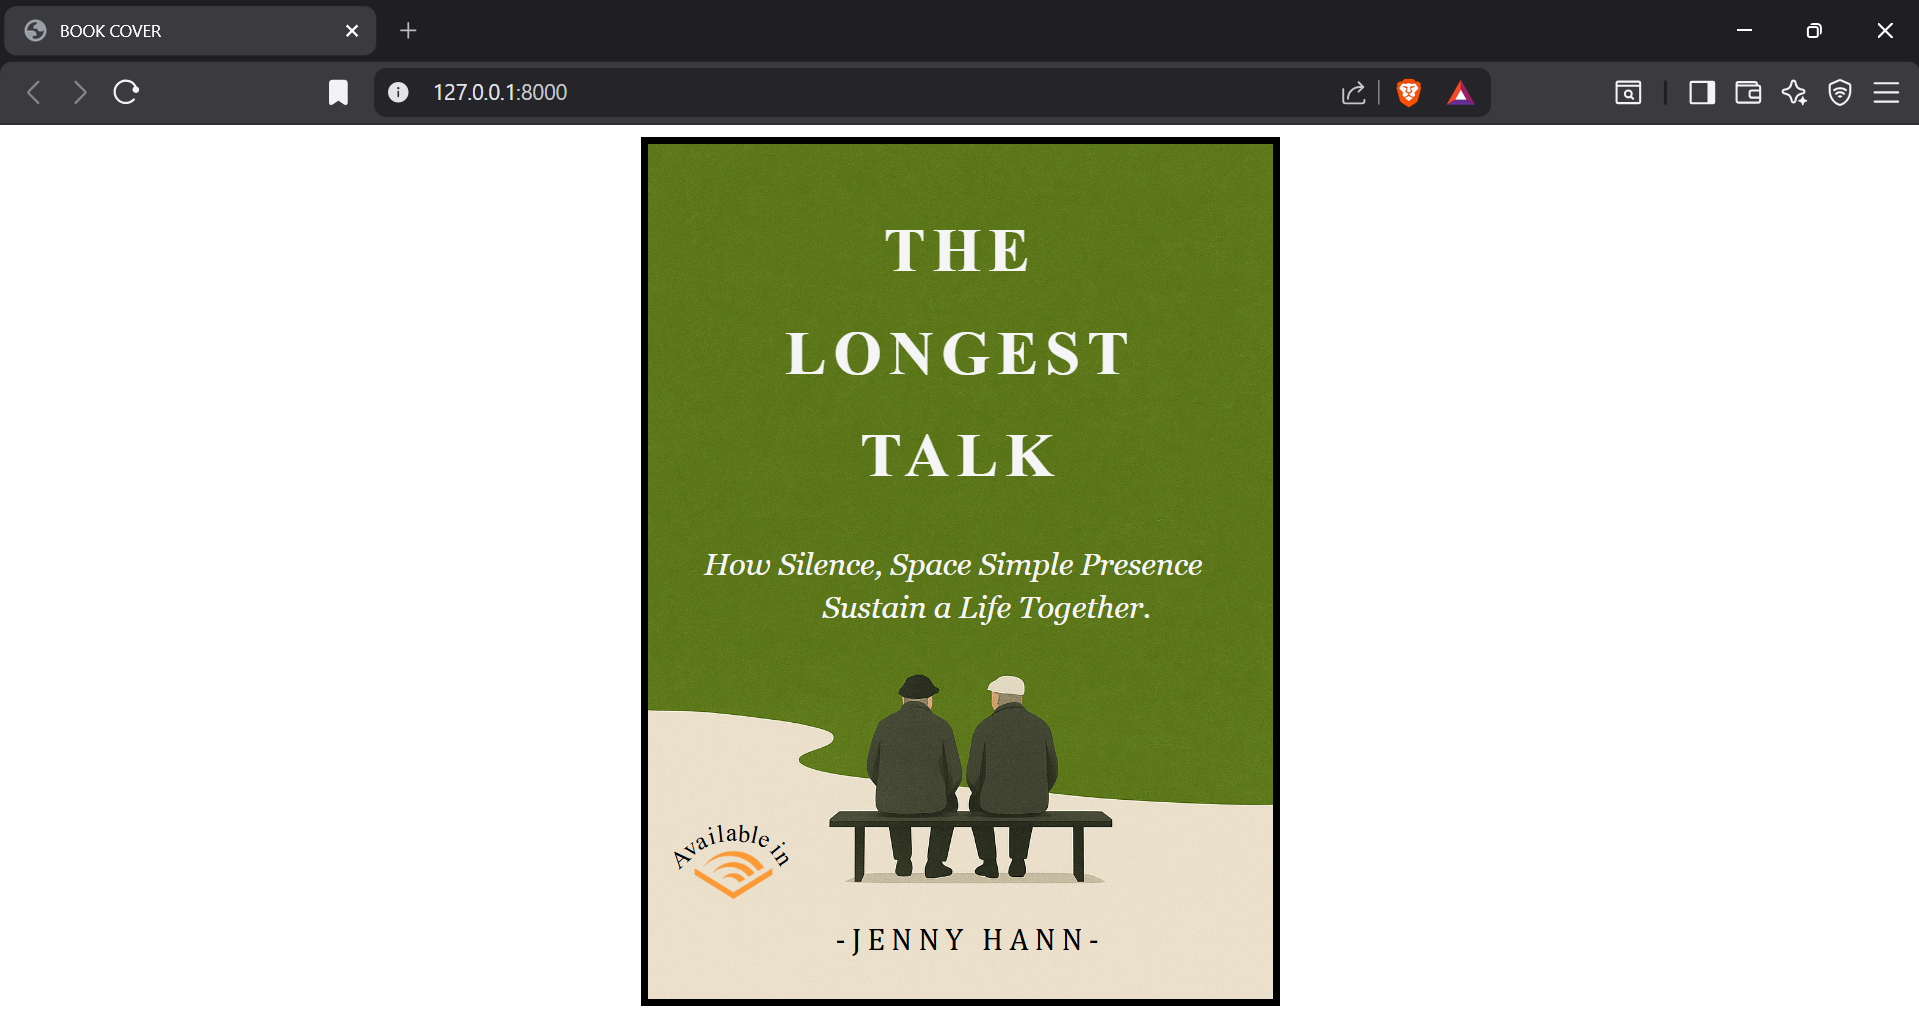
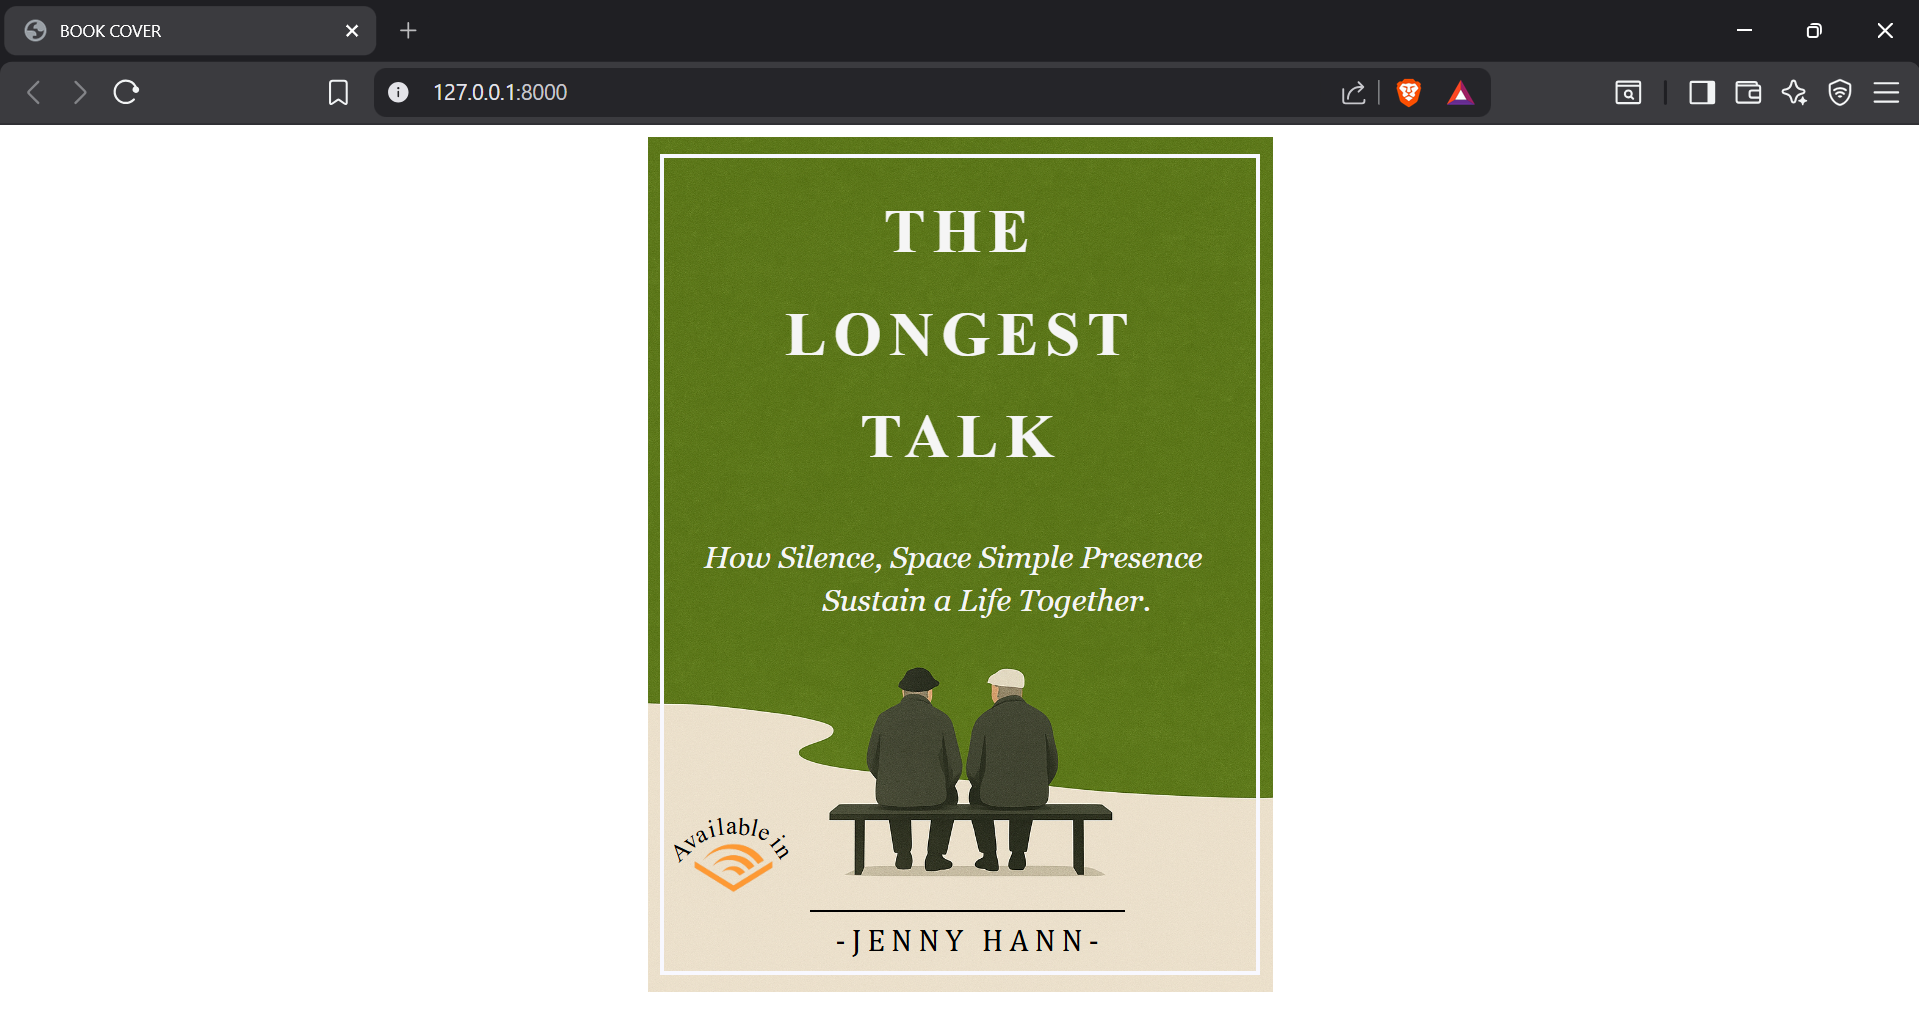
Success

diff --git a/exp6/coverpage/templates/cover.html b/exp6/coverpage/templates/cover.html
@@ -11,7 +11,6 @@
                 width:33%;
                 margin-left: auto;
                 margin-right: auto;
-                border: 5px solid black;
             }
             .page img{
                 position:absolute;
@@ -40,7 +39,7 @@
             }
             .page h2{
                 position: absolute;
-                bottom: 2%;
+                bottom: 1%;
                 left:30%;
                 font-weight: lighter;
                 font-size: 20px;
@@ -50,11 +49,27 @@
             .page span{
                 position: absolute;
             }
+            hr{
+                position: absolute;
+                bottom:8%;
+                left:26%;
+                width:50%;
+                border: 0.5px solid black;
+            }
+            .bord{
+                position:absolute;
+                height:95%;
+                width:94.5%;
+                border: 3px solid ghostwhite;
+                top:2%;
+                left:2%;
+            }
         </style>
     </head>
     <body>
         <div class="page">
-            <h1 style="padding-top: 27px;">THE</h1>
+            <div class="bord"></div>
+            <h1 style="padding-top: 46px;">THE</h1>
             <h1 style="padding-top: 10px;">LONGEST</h1>
             <h1 style="padding-top: 10px;">TALK</h1>
             <img src="{% static 'audible.png' %}">
@@ -71,6 +86,7 @@
             <span style="transform: rotate(56deg);bottom: 83px;left:84.5px;">n</span>
             <pre>How Silence, Space Simple Presence
                 Sustain a Life Together.         </pre>
+            <hr>
             <h2>-JENNY HANN-</h2>
         </div>
     </body>

diff --git a/README.md b/README.md
@@ -1,4 +1,4 @@
-# Ex.06 Book Front Cover Page Design
+# Ex.05 Book Front Cover Page Design
 # Date: 05.12.2025
 # AIM:
 To design a book front cover page using HTML and CSS.
@@ -62,7 +62,6 @@ cover.html
                 width:33%;
                 margin-left: auto;
                 margin-right: auto;
-                border: 5px solid black;
             }
             .page img{
                 position:absolute;
@@ -91,7 +90,7 @@ cover.html
             }
             .page h2{
                 position: absolute;
-                bottom: 2%;
+                bottom: 1%;
                 left:30%;
                 font-weight: lighter;
                 font-size: 20px;
@@ -101,11 +100,27 @@ cover.html
             .page span{
                 position: absolute;
             }
+            hr{
+                position: absolute;
+                bottom:8%;
+                left:26%;
+                width:50%;
+                border: 0.5px solid black;
+            }
+            .bord{
+                position:absolute;
+                height:95%;
+                width:94.5%;
+                border: 3px solid ghostwhite;
+                top:2%;
+                left:2%;
+            }
         </style>
     </head>
     <body>
         <div class="page">
-            <h1 style="padding-top: 27px;">THE</h1>
+            <div class="bord"></div>
+            <h1 style="padding-top: 46px;">THE</h1>
             <h1 style="padding-top: 10px;">LONGEST</h1>
             <h1 style="padding-top: 10px;">TALK</h1>
             <img src="{% static 'audible.png' %}">
@@ -122,6 +137,7 @@ cover.html
             <span style="transform: rotate(56deg);bottom: 83px;left:84.5px;">n</span>
             <pre>How Silence, Space Simple Presence
                 Sustain a Life Together.         </pre>
+            <hr>
             <h2>-JENNY HANN-</h2>
         </div>
     </body>
